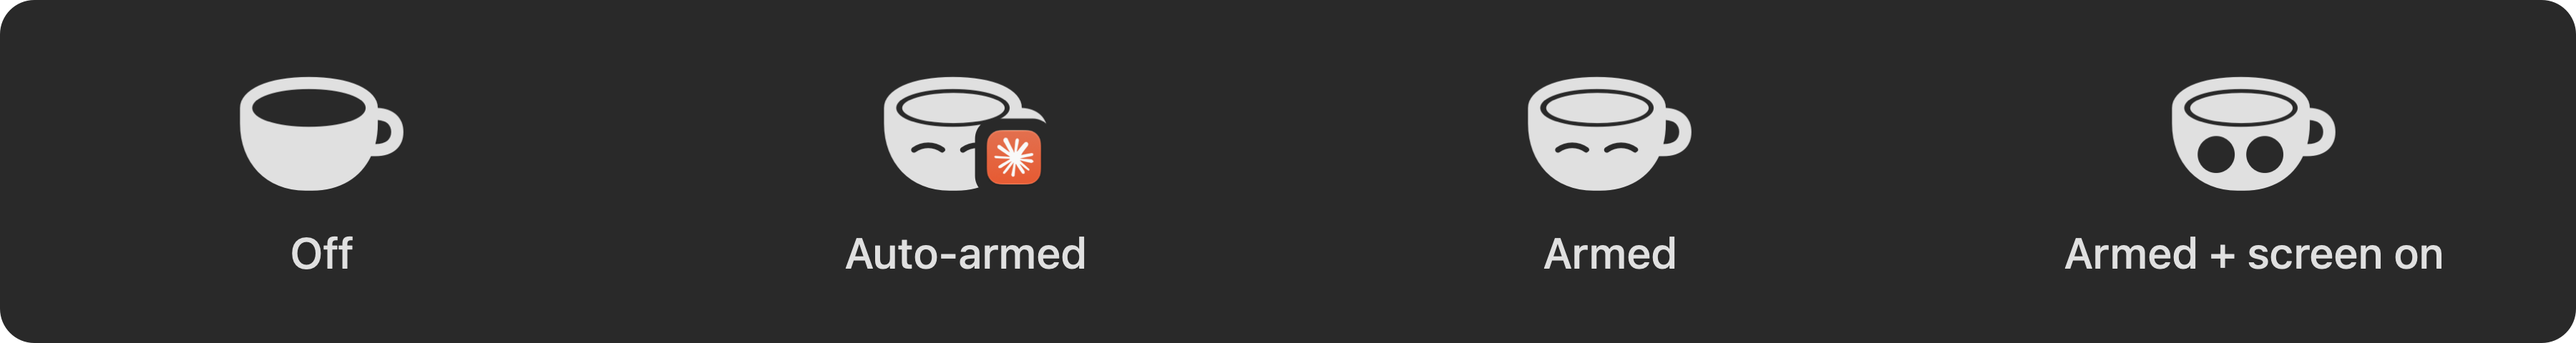
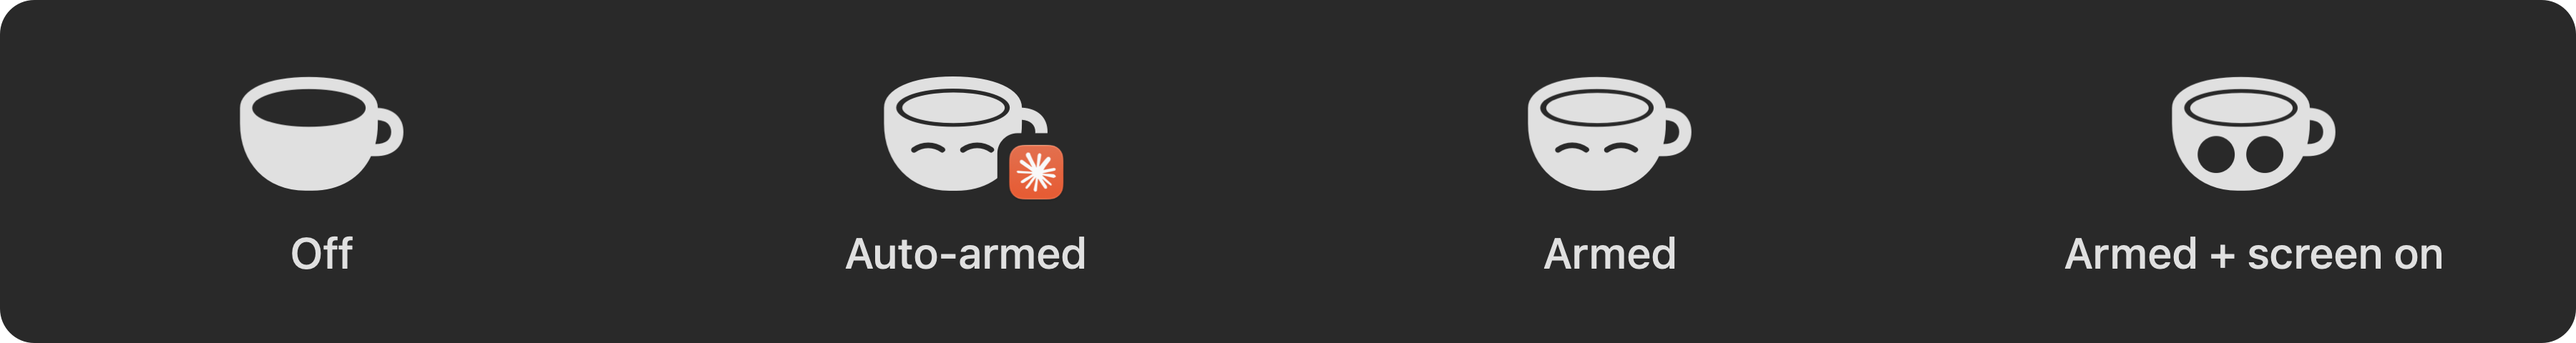
fix(menubar): badges off the cup's corner, an opaque cup, and a badge that goes when its app stops
The badged cup is drawn opaque, black on a light bar and white on a dark
one, decided from the appearance current when the bar draws it, instead of
the 85 % label colour that washed it out against the bar. The badges hang
off the cup's bottom-right corner, 3 pt right and 2 pt down in a 22 pt
tall image, clear of the eyes and over the foot of the handle. The cup
wears the apps at work right now: an app that stops while another still
works loses its badge; the apps that last ran stay through the hold-off.

Claude-Session: https://claude.ai/code/session_016xk5oLV2T4JHgQq7zSFNLw

Changed region(s): [[0.3733, 0.3438, 0.4356, 0.5938], [0.3422, 0.25, 0.3733, 0.2812]]

diff --git a/App/Sources/StatusItemController.swift b/App/Sources/StatusItemController.swift
@@ -116,22 +116,28 @@ final class StatusItemController: NSObject {
     }
 
     /// The badges: 9 pt squares (an app icon still reads at that size on a Retina bar), 3 pt apart in the
-    /// stack, with 0.75 pt of cup cleared around each.
+    /// stack, with 0.75 pt of cup cleared around each. The front one hangs off the cup's bottom-right
+    /// corner, 3 pt to the right and 2 pt down: clear of the eyes, over the foot of the handle, its bottom
+    /// half a point above the bar's edge.
     static let badgeSide: CGFloat = 9, badgeStep: CGFloat = 3, badgeKnockout: CGFloat = 0.75
+    static let badgeOverhang: CGFloat = 3, badgeDrop: CGFloat = 2
 
-    /// The armed cup wearing the apps at work: the same cup as `mugImage(state: .armed)`, at the same place,
-    /// the badges stacked from its bottom-right corner up and to the right (the first in front), the image
-    /// widening to hold them. The icons carry colour, so this is no template image: the cup is drawn in
-    /// the bar's own text colour, resolved at draw time so it follows the bar's appearance, or in orange
-    /// for the warning.
+    /// The armed cup wearing the apps at work: the same cup as `mugImage(state: .armed)`, sitting where that
+    /// one sits (the image is the bar's 22 pt tall, so the cup keeps its place while the badges reach
+    /// lower), the badges stacked from past its bottom-right corner up and to the right (the first in
+    /// front), the image widening to hold them. The icons carry colour, so this is no template image: the
+    /// cup is drawn opaque, black on a light bar and white on a dark one, decided when the bar draws it,
+    /// or orange for the warning.
     static func badgedMugImage(badges: [NSImage], warning: Bool) -> NSImage {
         let width: CGFloat = 22, height = width * MugShape.aspect
-        let mug = NSRect(x: 0.5, y: 0.5, width: width, height: height)
-        let frames = MugShape.badgeFrames(count: badges.count, in: mug, side: badgeSide, step: badgeStep)
+        let mug = NSRect(x: 0.5, y: 0.5 + badgeDrop, width: width, height: height)
+        let anchor = NSPoint(x: mug.maxX + badgeOverhang, y: mug.minY - badgeDrop)
+        let frames = MugShape.badgeFrames(count: badges.count, anchor: anchor, side: badgeSide, step: badgeStep)
         let right = frames.map(\.maxX).max() ?? mug.maxX
-        let size = NSSize(width: ceil(right + 0.5), height: ceil(height) + 2)
+        let size = NSSize(width: ceil(right + 0.5), height: ceil(height) + 2 + badgeDrop * 2)
         let image = NSImage(size: size, flipped: false) { _ in
-            MugShape.draw(in: mug, state: .armed, ink: warning ? .systemOrange : .labelColor)
+            let dark = NSAppearance.currentDrawing().bestMatch(from: [.aqua, .darkAqua]) == .darkAqua
+            MugShape.draw(in: mug, state: .armed, ink: warning ? .systemOrange : (dark ? .white : .black))
             MugShape.drawBadges(badges, frames: frames, knockout: badgeKnockout)
             return true
         }

diff --git a/Tests/KoffeeLidCoreTests/ActivityBadgesTests.swift b/Tests/KoffeeLidCoreTests/ActivityBadgesTests.swift
@@ -59,16 +59,23 @@ final class ActivityBadgesTests: XCTestCase {
         b.update(running: [.claude], levelOn: false)
         XCTAssertEqual(b.badges, [])
     }
-    func testBadgesAccumulateOverAStretchAndStayThroughTheHoldOff() {
+    func testTheBadgesAreTheAppsAtWorkKeptThroughTheHoldOff() {
         var b = AutoArmBadges()
         b.update(running: [.claude], levelOn: true)
         XCTAssertEqual(b.badges, [.claude])
         b.update(running: [], levelOn: true)
-        XCTAssertEqual(b.badges, [.claude], "the hold-off keeps the badge")
+        XCTAssertEqual(b.badges, [.claude], "the hold-off keeps what last ran")
         b.update(running: [.terminal], levelOn: true)
-        XCTAssertEqual(b.badges, [.claude, .terminal], "everything that ran during the stretch")
+        XCTAssertEqual(b.badges, [.terminal], "a command during the hold-off: only its app")
         b.update(running: [], levelOn: false)
         XCTAssertEqual(b.badges, [], "the level dropped")
+    }
+    func testAnAppThatStopsWhileAnotherRunsLosesItsBadge() {
+        var b = AutoArmBadges()
+        b.update(running: [.claude, .terminal], levelOn: true)
+        XCTAssertEqual(b.badges, [.claude, .terminal])
+        b.update(running: [.terminal], levelOn: true)
+        XCTAssertEqual(b.badges, [.terminal], "the turn was interrupted, the command goes on")
     }
     func testANewStretchStartsFromScratch() {
         var b = AutoArmBadges()

diff --git a/Sources/KoffeeLidCore/ActivityBadges.swift b/Sources/KoffeeLidCore/ActivityBadges.swift
@@ -52,9 +52,9 @@ extension ProcWalk {
     }
 }
 
-/// The badges the auto-armed cup wears: one per app whose work ran during the current stretch of the auto
-/// level, kept through the hold-off (the cup still says why the Mac is armed), cleared when the level
-/// drops. The coordinator feeds it the running badges on every activity change.
+/// The badges the auto-armed cup wears: one per app at work right now; once nothing runs, the apps that
+/// last ran stay through the hold-off (the cup still says why the Mac is armed); the level dropping
+/// clears them. The coordinator feeds it the running badges on every activity change.
 public struct AutoArmBadges: Equatable {
     /// Front to back.
     public private(set) var badges: [ActivityBadge] = []
@@ -64,7 +64,7 @@ public struct AutoArmBadges: Equatable {
 
     public mutating func update(running: Set<ActivityBadge>, levelOn: Bool) {
         guard levelOn else { badges = []; return }
-        badges = Set(badges).union(running).sorted()
+        if !running.isEmpty { badges = running.sorted() }
     }
 
     /// The badges the cup draws.

diff --git a/App/Sources/MugShape.swift b/App/Sources/MugShape.swift
@@ -46,12 +46,12 @@ enum MugShape {
         }
     }
 
-    /// Where the badges of the apps at work sit on a cup drawn in `r`: `side` pt squares stacked from the
-    /// cup's bottom-right corner, each further one `step` pt up and to the right, the first in front.
-    static func badgeFrames(count: Int, in r: NSRect, side: CGFloat, step: CGFloat) -> [NSRect] {
+    /// Where the badges of the apps at work sit: `side` pt squares, the first in front with its bottom-right
+    /// corner at `anchor`, each further one `step` pt up and to the right.
+    static func badgeFrames(count: Int, anchor: NSPoint, side: CGFloat, step: CGFloat) -> [NSRect] {
         (0..<max(0, count)).map { i in
             let d = CGFloat(i) * step
-            return NSRect(x: r.maxX - side + d, y: r.minY + d, width: side, height: side)
+            return NSRect(x: anchor.x - side + d, y: anchor.y + d, width: side, height: side)
         }
     }
 

diff --git a/docs/manual-test-checklist.md b/docs/manual-test-checklist.md
@@ -100,7 +100,7 @@
 ## Arming paths
 - [ ] Left-click the mug icon → header "KoffeeLid — <mode>", then Off / Armed / Armed + screen on, each followed by its cup in grey (empty / closed eyes / round eyes, matching the menu bar glyph), with a checkmark on the current one; clicking a mode switches; the tooltip names the mode
 - [ ] Auto-armed (Claude Code working, "While Claude Code…" on): the icon shows the closed-eyes cup with the Claude app's icon at its bottom-right corner (in colour, in a light and in a dark menu bar), the tooltip says "Auto-armed" and the greyed "Auto-armed while…" line ends with that same icon, while the menu still checks Off; `koffeelid arm` or ⌃⌥⌘L switches the glyph to the plain armed cup at once
-- [ ] Auto-armed by a command run in Terminal, then by one in another terminal app (iTerm, VS Code's terminal…): the badge is that app's icon each time; with Claude Code working as well, the Claude badge sits in front and the terminal's behind it, up and to the right; the badges stay on the cup after the work ends, through the whole "Auto-armed, off in N min" hold-off, and go with `disarmed (activity ended)`
+- [ ] Auto-armed by a command run in Terminal, then by one in another terminal app (iTerm, VS Code's terminal…): the badge is that app's icon each time, hung off the cup's bottom-right corner over the foot of the handle and never over an eye, opaque black in a light bar and white in a dark one; with Claude Code working as well, the Claude badge sits in front and the terminal's behind it, up and to the right; Ctrl-C the Claude turn while the command runs → within a minute only the terminal's badge is left; the badges of what last ran stay on the cup through the whole "Auto-armed, off in N min" hold-off, and go with `disarmed (activity ended)`
 - [ ] Right-click cycles Off → Armed → Armed + screen on → Off when the clicks are within 3 s; wait > 3 s in Armed or Armed + screen on, right-click → Off directly (log `disarmed (rightClick)`)
 - [ ] ⌃⌥⌘L: Off → Armed → Off; from Armed + screen on → Armed (`mode caffeinate → armed (shortcut)`)
 - [ ] ⌃⌥⌘K: Off → Armed + screen on → Off; from Armed → Armed + screen on (`mode armed → caffeinate (shortcut)`, `display kept on (caffeinate)`)

diff --git a/docs/functional.md b/docs/functional.md
@@ -197,13 +197,15 @@ lid closes, only on the built-in display, and captures nothing while the lid res
 ## User interface
 
 - **Menu-bar cup.** Three glyphs: empty (Off), closed eyes (Armed), round eyes (Armed + screen on). Auto-armed
-  is the closed-eyes cup wearing, at its bottom-right corner, the icon of each app whose work armed the Mac:
+  is the closed-eyes cup wearing, hung off its bottom-right corner and clear of the eyes, the icon of each app
+  at work:
   the Claude desktop app for Claude Code, the OpenAI desktop app's Codex icon for Codex, and for a command the
   terminal app hosting its shell (Terminal, iTerm, an editor's terminal…; Terminal's icon when no app hosts it,
   as over ssh). Several stack up and to the right, front to back Claude Code, Codex, then the terminals, three
   at most. The icons are the installed apps' own, nothing is bundled: an app that is not installed gives no
-  badge. The badges of everything that ran during the stretch stay through the hold-off, so the cup still says
-  why the Mac is armed, and go when the level drops. A manual mode always wins over the auto cup. Orange = the
+  badge. An app that stops while another still works loses its badge at once; once nothing runs, the apps
+  that last ran stay through the hold-off, so the cup still says why the Mac is armed, and go when the level
+  drops. A manual mode always wins over the auto cup. Orange = the
   kernel flag could not be cleared. Optional lid angle next to it. "Show in menu bar" off hides the cup and
   nothing else: every arming path that does not go through it (the gesture, the two shortcuts, auto-arm, the
   CLI, URLs, App Intents) and every armed behaviour work exactly as before; right-clicking to arm and the lid

diff --git a/docs/development.md b/docs/development.md
@@ -281,10 +281,11 @@ the shared `cup`, one eye string per armed state, and the `liquid` ellipse in ev
 it: edit the SVGs, paste the new `d` strings into `MugShape` (the parser handles M L H V C A Z), update
 `MugShape.box` if the cup bounds moved, and rebuild. Glyph size and vertical offset live in
 `StatusItemController.mugImage` (22 pt wide, template image). The auto-armed cup has no artwork of its own:
-`StatusItemController.badgedMugImage` draws the armed cup and stacks the app icons of the work on it
-(`MugShape.badgeFrames`, `drawBadges`; the badge size, step and knock-out are the three constants beside it).
-That image carries colour, so it is not a template: the cup is drawn in `labelColor`, resolved when the bar
-draws it. The icons come from `ActivityIcons` (the system's icon for the app, cached per app), the apps from
+`StatusItemController.badgedMugImage` draws the armed cup and stacks the app icons of the work off its corner
+(`MugShape.badgeFrames`, `drawBadges`; the badge size, step, knock-out, overhang and drop are the constants
+beside it, and the image is the bar's 22 pt tall so the cup keeps its place while the badges reach lower).
+That image carries colour, so it is not a template: the cup is drawn opaque, black on a light bar and white on
+a dark one, decided from the appearance current when the bar draws it. The icons come from `ActivityIcons` (the system's icon for the app, cached per app), the apps from
 `ActivityBadge` in Core.
 
 **The app icon** is `App/Resources/AppIcon.icon`, an Icon Composer document (Xcode ships Icon Composer.app

diff --git a/docs/architecture.md b/docs/architecture.md
@@ -306,7 +306,8 @@ counts it per agent (`claudeSessions`, `codexSessions`).
 The snapshot also carries the badges of the work (`ActivityBadge`: a kind and the app that stands for it):
 Claude Code's and Codex's are fixed bundle identifiers, a command's is the app hosting its shell, read from
 the shell pid's process chain (`ProcWalk.hostApplicationPath`) at every publish, Terminal when none.
-`AutoArmBadges` in the coordinator unions them over a stretch of the level and clears them when it drops
+`AutoArmBadges` in the coordinator shows the running ones, keeps the last running set through the hold-off
+and clears them when the level drops
 (`currentAutoBadges`, refreshed with the status item and read again when the menu is built); `ActivityIcons`
 turns each app into its icon once and keeps it.
 
